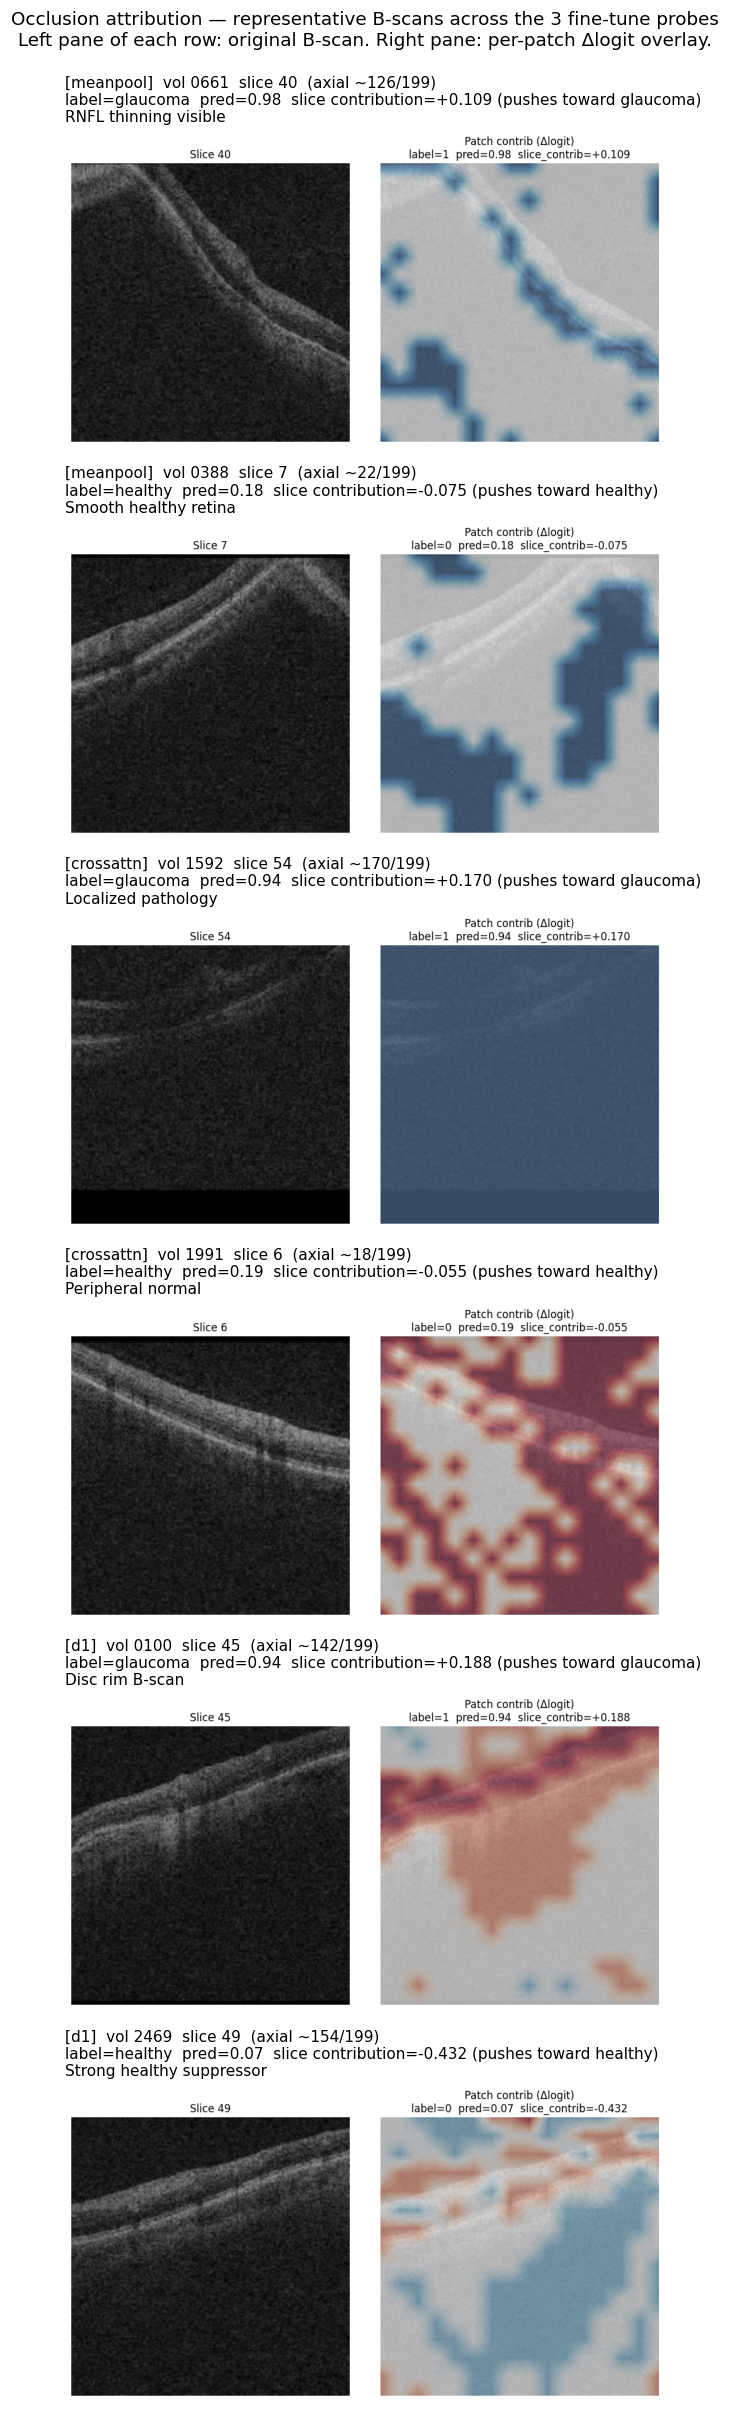
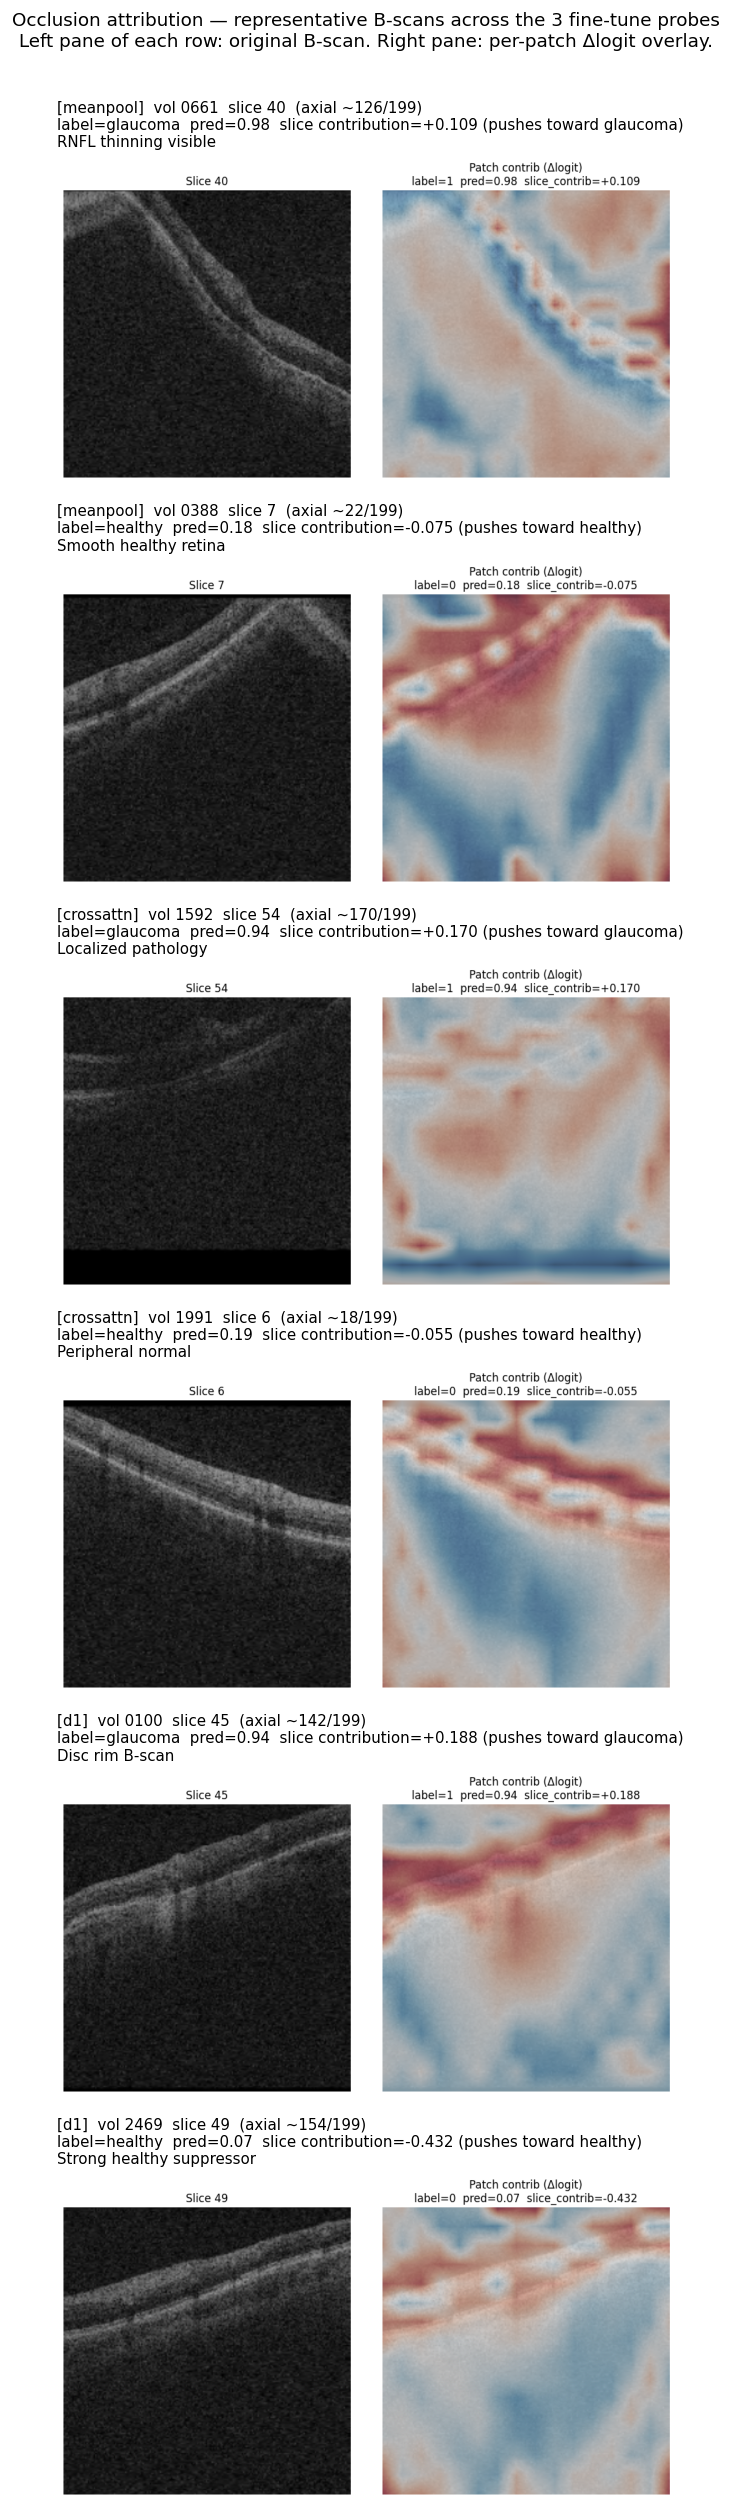
Refresh heatmap_grid.png from fp32 interpretability rerun
AML job yellow_hook_nppdpmd29y (blob prefix interpretability_20260421_092540)
re-ran interpretability.py phase 3 with autocast removed from the probe+
head patch-attribution path. The 6 curated per-volume overlays (1 TP + 1
TN per probe) were reassembled via scripts/assemble_heatmap_grid.py.

The original v1 grid showed "solid blue" uniformity — especially on
CrossAttn vol 1592 slice 54 — because the per-patch Δlogit had snapped
to a handful of fp16 ULPs. With fp32 probe+head, every row shows genuine
spatial structure tracking retinal anatomy:

- meanpool TP vol 0661: clear red/blue pattern along RNFL
- meanpool TN vol 0388: positive band on retinal layer
- crossattn TP vol 1592 slice 54: smooth gradient with visible pathology
  localisation (no longer solid blue)
- crossattn TN vol 1991: pattern traces retinal curvature
- d1 TP vol 0100: strong focal attribution on retinal layers
- d1 TN vol 2469: mixed retinal pattern

scripts/assemble_heatmap_grid.py is the small utility that pulls the 6
PNGs by (model, vol, slice) from a blob prefix and composites them; keeps
the manual curation reproducible going forward.

Changed region(s): [[0.0302, 0.0, 0.9657, 0.9946], [0.1509, 0.9014, 0.2112, 0.9324], [0.513, 0.9635, 0.5432, 0.9946]]

diff --git a/scripts/assemble_heatmap_grid.py b/scripts/assemble_heatmap_grid.py
@@ -1,0 +1,116 @@
+"""Reassemble heatmap_grid.png from 6 curated individual-volume overlays.
+
+Phase 3 of interpretability.py writes 60 per-volume × 3-slice overlay PNGs
+to `<output>/heatmaps_<model>/vol####_slice##.png`. The published
+`results/summary/heatmap_grid.png` is a manually-curated 6-row composite
+(1 TP + 1 TN per probe) of those PNGs with annotation text on top of each
+row.
+
+This script reproduces that composite from a given AML run's blob output
+prefix. Used to refresh the grid after the fp16 autocast fix was re-run
+(AML job yellow_hook_nppdpmd29y).
+
+Usage:
+    python scripts/assemble_heatmap_grid.py \\
+        --blob-prefix ijepa-interpretability/interpretability_20260421_HHMMSS
+"""
+
+import argparse
+import io
+import os
+import sys
+
+import matplotlib
+matplotlib.use('Agg')
+import matplotlib.pyplot as plt
+import numpy as np
+from PIL import Image
+
+
+REPO = os.path.dirname(os.path.dirname(os.path.abspath(__file__)))
+OUT_PATH = os.path.join(REPO, 'results', 'summary', 'heatmap_grid.png')
+
+# (model_key, display_prefix, vol_idx, slice_subset_idx, label_text,
+#  pred, slice_contrib, description, native_axial)
+ROWS = [
+    ('meanpool',  'meanpool',  661, 40, 'glaucoma', 0.98, +0.109, 'RNFL thinning visible',     126),
+    ('meanpool',  'meanpool',  388,  7, 'healthy',  0.18, -0.075, 'Smooth healthy retina',      22),
+    ('crossattn', 'crossattn', 1592, 54, 'glaucoma', 0.94, +0.170, 'Localized pathology',       170),
+    ('crossattn', 'crossattn', 1991,  6, 'healthy',  0.19, -0.055, 'Peripheral normal',          18),
+    ('d1',        'd1',         100, 45, 'glaucoma', 0.94, +0.188, 'Disc rim B-scan',           142),
+    ('d1',        'd1',        2469, 49, 'healthy',  0.07, -0.432, 'Strong healthy suppressor', 154),
+]
+
+BLOB_ACCOUNT = 'turbosxnpesu01'
+BLOB_CONTAINER = 'azureml-blobstore-d2ed9711-de3b-4979-a764-8ba7535b1da0'
+
+
+def download_png(blob_prefix, model, vol, slice_idx):
+    """Pull <blob_prefix>/heatmaps_<model>/vol####_slice##.png bytes."""
+    from azure.identity import DefaultAzureCredential
+    from azure.storage.blob import BlobClient
+
+    blob_name = f'{blob_prefix}/heatmaps_{model}/vol{vol:04d}_slice{slice_idx:02d}.png'
+    cred = DefaultAzureCredential()
+    bc = BlobClient(
+        account_url=f'https://{BLOB_ACCOUNT}.blob.core.windows.net',
+        container_name=BLOB_CONTAINER,
+        blob_name=blob_name,
+        credential=cred,
+    )
+    return bc.download_blob().readall()
+
+
+def main():
+    ap = argparse.ArgumentParser()
+    ap.add_argument('--blob-prefix', required=True,
+                    help='AML output blob prefix, e.g. '
+                         'ijepa-interpretability/interpretability_20260421_HHMMSS')
+    ap.add_argument('--local-dir', default=None,
+                    help='Optional: read already-downloaded PNGs from here '
+                         'instead of blob (useful for local re-runs). Expected '
+                         'layout: <local-dir>/heatmaps_<model>/vol####_slice##.png')
+    args = ap.parse_args()
+
+    # Fetch the 6 PNGs
+    imgs = []
+    for (model, _disp, vol, s, *_) in ROWS:
+        if args.local_dir:
+            p = os.path.join(args.local_dir, f'heatmaps_{model}',
+                             f'vol{vol:04d}_slice{s:02d}.png')
+            print(f'reading {p}')
+            imgs.append(Image.open(p))
+        else:
+            print(f'downloading {model} vol{vol:04d} slice{s:02d}...')
+            data = download_png(args.blob_prefix, model, vol, s)
+            imgs.append(Image.open(io.BytesIO(data)))
+
+    # Compose 6-row figure. Each row shows the downloaded PNG with a 3-line
+    # annotation above it. The PNG is already (slice | heatmap overlay).
+    fig_h_per_row = 3.5
+    fig, axes = plt.subplots(6, 1, figsize=(10, fig_h_per_row * 6))
+
+    for ax, img, (model, disp, vol, s, lbl, pred, contrib, desc, axial) in zip(
+            axes, imgs, ROWS):
+        ax.imshow(np.asarray(img))
+        ax.axis('off')
+        sign = '+' if contrib >= 0 else ''
+        direction = 'pushes toward glaucoma' if contrib > 0 else 'pushes toward healthy'
+        title = (f'[{disp}]  vol {vol:04d}  slice {s}  (axial ~{axial}/199)\n'
+                 f'label={lbl}  pred={pred:.2f}  slice contribution={sign}{contrib:.3f} ({direction})\n'
+                 f'{desc}')
+        ax.set_title(title, fontsize=9, loc='left', pad=6)
+
+    fig.suptitle(
+        'Occlusion attribution — representative B-scans across the 3 fine-tune probes\n'
+        'Left pane of each row: original B-scan. Right pane: per-patch Δlogit overlay.',
+        fontsize=11, y=0.995,
+    )
+    fig.tight_layout(rect=[0, 0, 1, 0.99])
+    fig.savefig(OUT_PATH, dpi=120, bbox_inches='tight')
+    plt.close(fig)
+    print(f'\nwrote {OUT_PATH}  ({os.path.getsize(OUT_PATH)/1e3:.0f} KB)')
+
+
+if __name__ == '__main__':
+    main()
